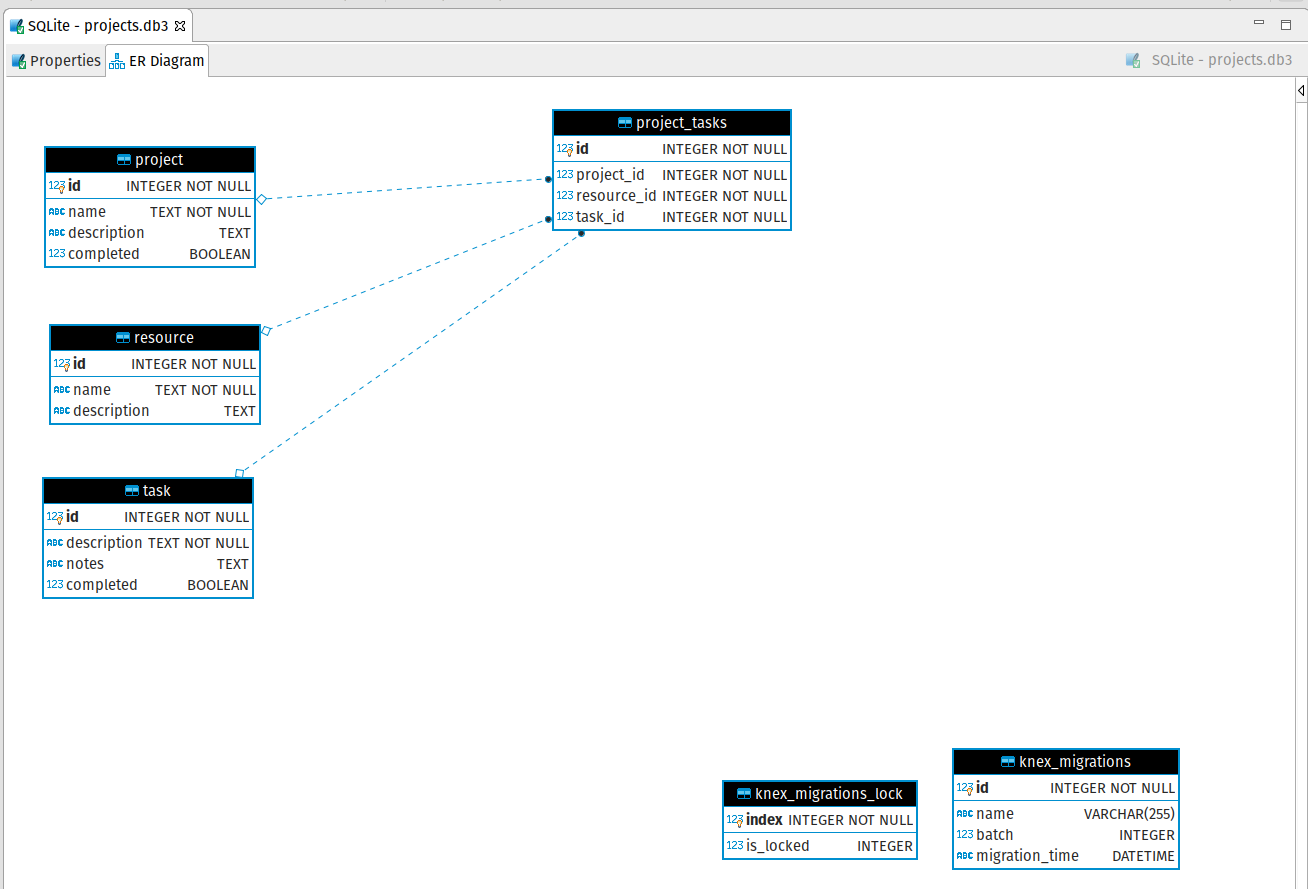
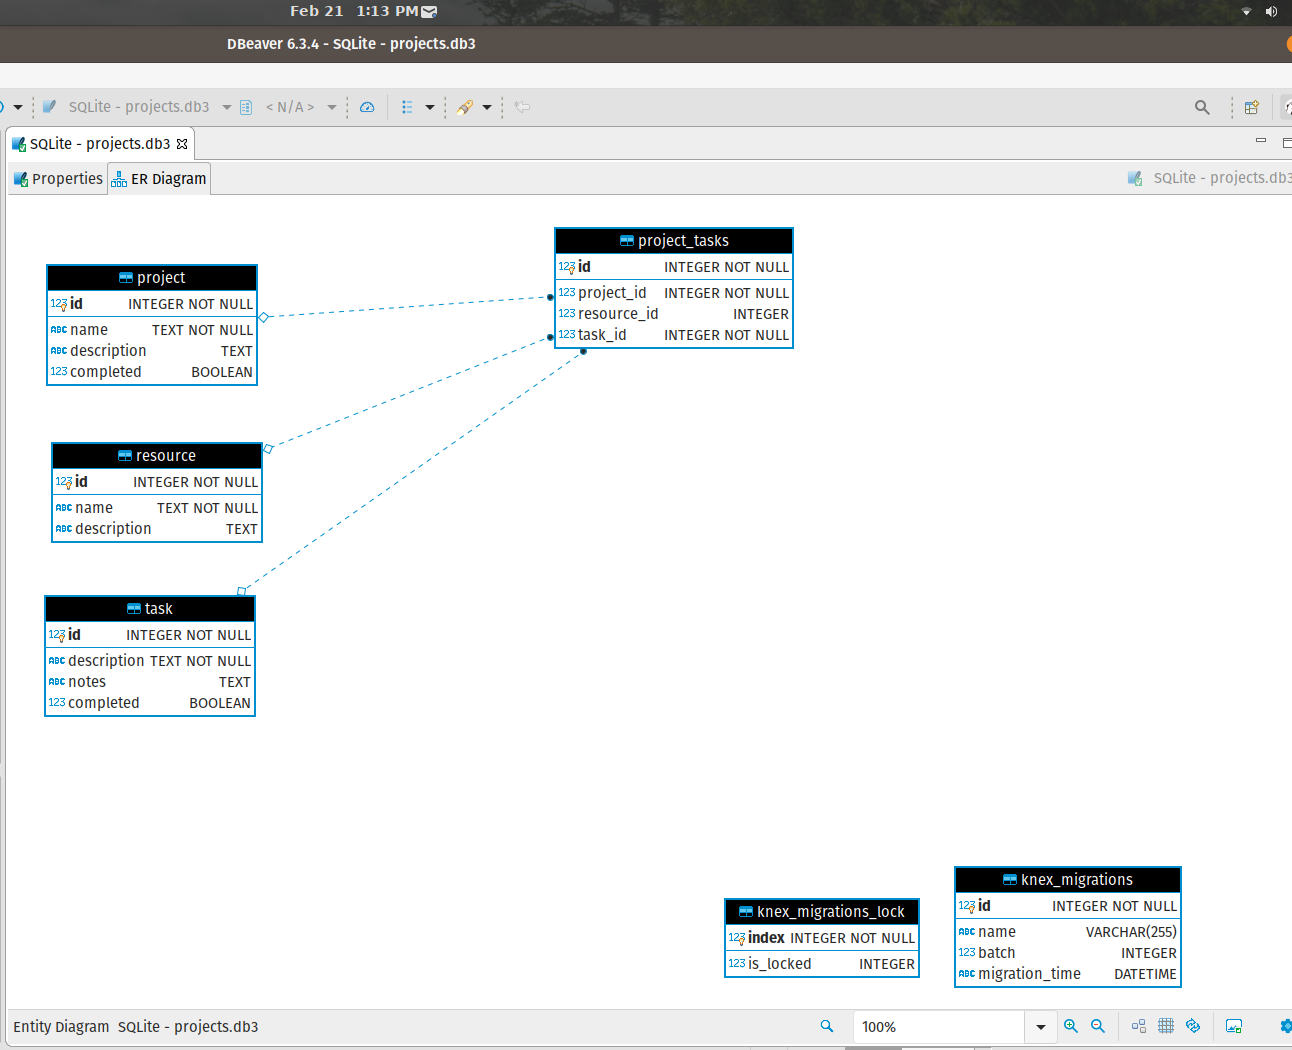
resource is optional for task

Changed region(s): [[0.0, 0.0, 1.0, 0.6985], [0.0, 0.82, 1.0, 1.0]]

diff --git a/data/migrations/20200221120115_project_tasks.js b/data/migrations/20200221120115_project_tasks.js
@@ -10,9 +10,8 @@ exports.up = function(knex) {
       .inTable("project")
       .onUpdate("CASCADE");
     tbl
-      .integer("resource_id")
+      .integer("resource_id") // not every task will need to tap a resource
       .unsigned()
-      .notNullable()
       .references("id")
       .inTable("resource")
       .onUpdate("CASCADE");

diff --git a/README.md b/README.md
@@ -68,12 +68,12 @@ Complete the following tasks:
   - [✓] when adding a `task` the client must provide a description, the notes are optional.
   - [✓] when adding a `task` the client must provide the `id` of an existing project.
   - [✓] for `projects` and `tasks` if no value is provided for the `completed` property, the API should provide a default value of `false`.
-- [ ] Build an API with endpoints for:
-  - [ ] adding resources.
+- [/] Build an API with endpoints for:
+  - [/] adding resources.
   - [/] retrieving a list of resources.
-  - [ ] adding projects.
+  - [/] adding projects.
   - [/] retrieving a list of projects.
-  - [ ] adding tasks.
+  - [/] adding tasks.
   - [/] retrieving a list of tasks. **The list of tasks should include the project name and project description**.
 
 ### Entities
